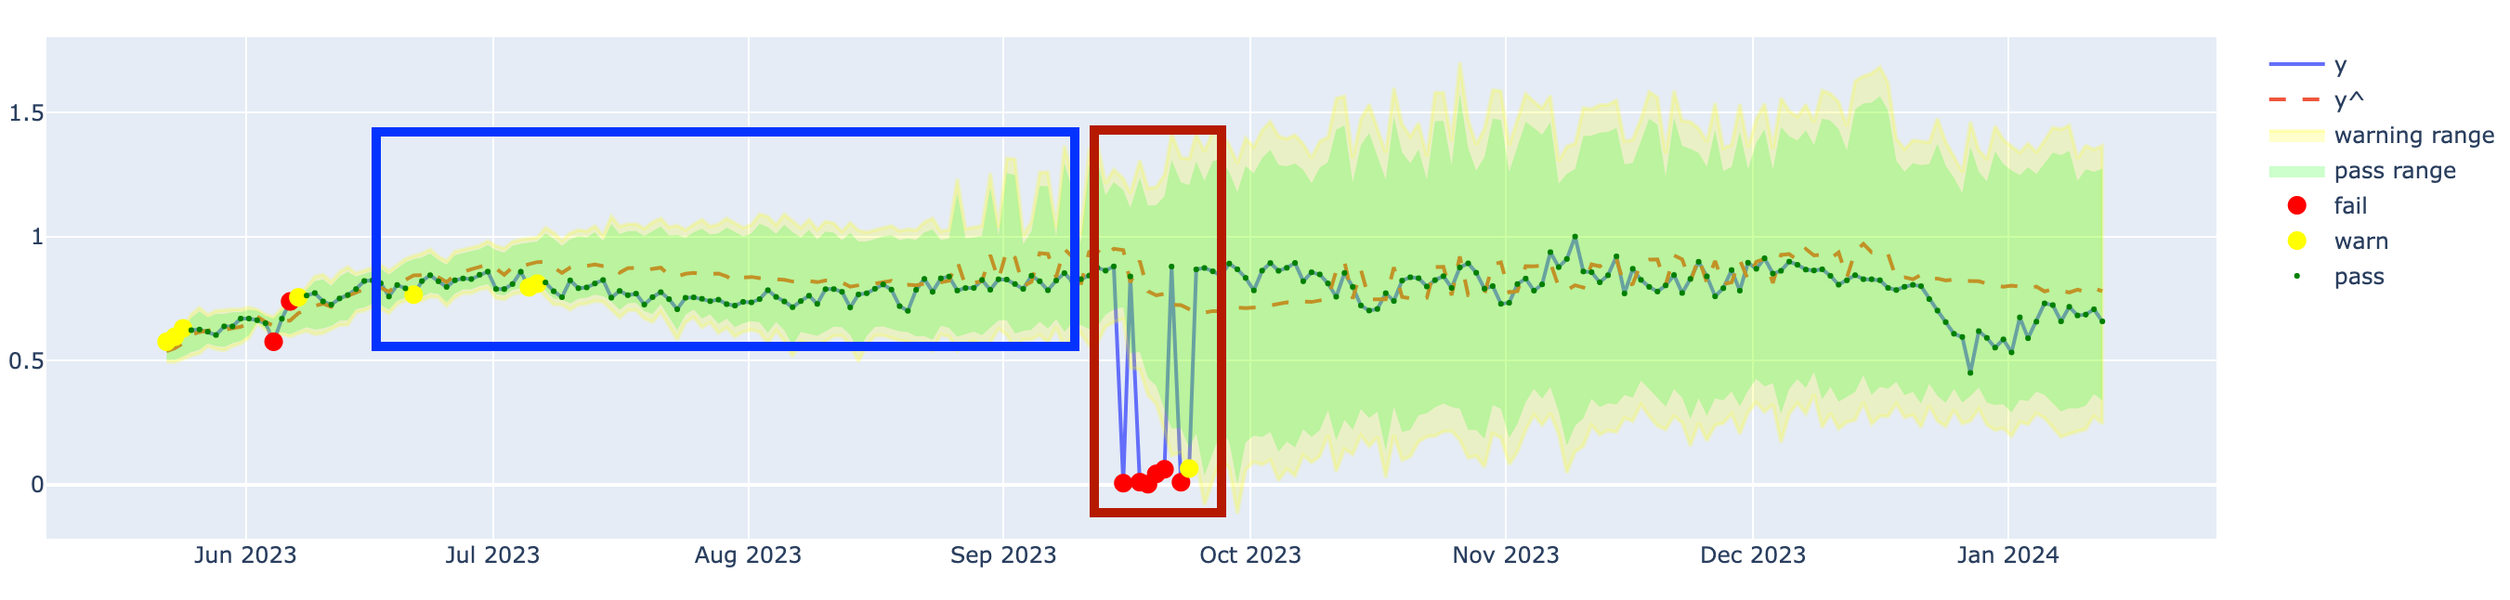
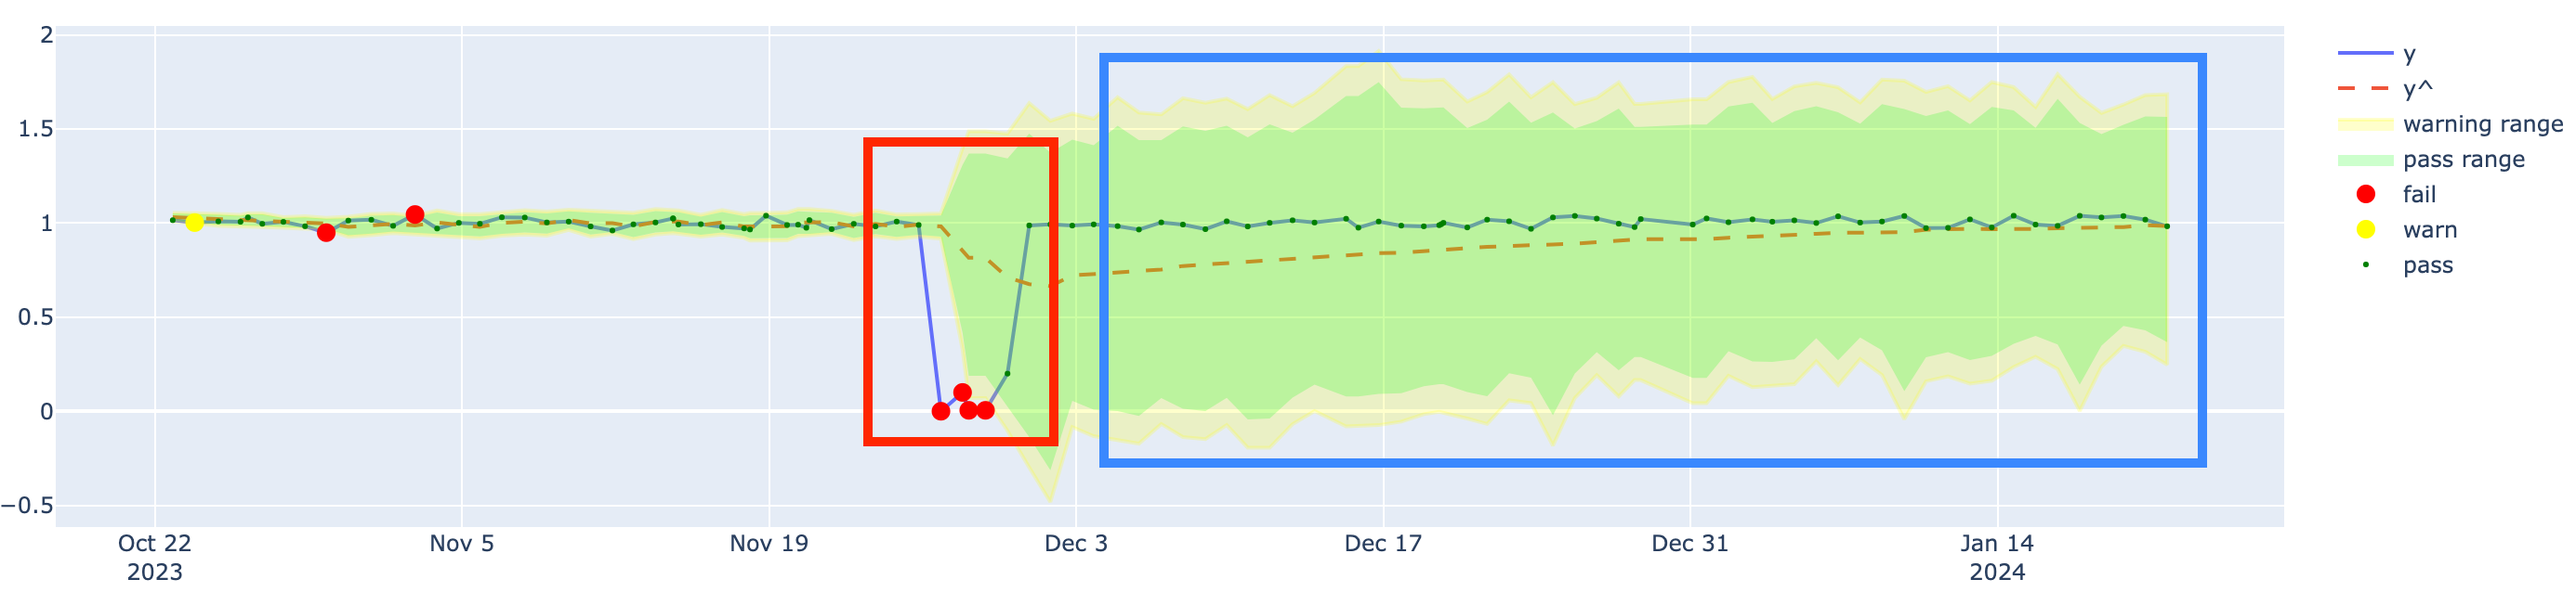
fix anomaly detection docs example for feedbacks

Changed region(s): [[0.0, 0.031, 0.9948, 0.9598]]

diff --git a/soda-cl/anomaly-detection.md b/soda-cl/anomaly-detection.md
@@ -439,26 +439,39 @@ With the profile set to `MAPE`, the model uses higher `changepoint_prior_scale=0
 
 ![underfitting-coverage](/assets/images/ad-better-fit-mape.png){:height="700px" width="700px"}
 
-### Sudden pattern changes
+### Handling consequtive falsely identified anomalies
 
-To decrease the rate of false detection of anomalies, Soda optimized the default hyperparameters of the anomaly detection check to detect anomalies in time-series data that exhibits a stable pattern. If the data exhibits sudden pattern changes, as illustrated in the graph below, you may need to adjust the default parameters to improve the model's ability to detect anomalies. 
+To decrease the rate of false detection of anomalies, Soda optimized the default hyperparameters of the anomaly detection check to detect anomalies in time-series data that exhibits a stable pattern. If the data exhibits pattern changes, as illustrated in the graph below, you may need to adjust the default parameters to improve the model's ability to detect anomalies to prevent alert fatigue. Until November 2023, we see that the data follows a stable pattern and using `coverage` profile is sufficient to detect anomalies. However, after November 2023, the pattern changes and the model needs to adapt to the new pattern.
 
-![coverage-profile](/assets/images/coverage-profile.png){:height="700px" width="700px"}
+![coverage-profile](/assets/images/ad-false-positive-coverage.png){:height="700px" width="700px"}
 
-In this situation, consider shortening the `window_length` parameter to make the model more sensitive to recent changes. By default, the `window_length` is `1000` which means that the model uses the last 1000 measurements to detect anomalies. If you set the `window_length` to a lower value such as  `30`, the model uses the last 30 measurements. Experiment with different values to find the optimal `window_length` for your data and business use case. Refer to [default model configurations](#add-optional-training-dataset-configurations) for guidance.
+The default `coverage` profile has very low `changepoint_prior_scale=0.001` and `seasonality_prior_scale=0.01` values which makes the model insensitive for the trend changes. For this reason, during the adaptation period, the model falsely identified consecutive measurements as anomalies for a long time as seen in the red rectangle. In such a case, consider using the `MAPE` as the first action as it is explained in the [previous section](#Insensitive-detection). Since, `MAPE` profile is more sensitive and it converges faster than `coverage` profile in case of pattern changes. The graph below illustrates the `MAPE` profile.
+
+![coverage-profile](/assets/images/ad-false-positive-mape.png){:height="700px" width="700px"}
+
+`MAPE` profile achieved a much better fit since `yˆ` values closely follow the actual measurements. Compared to `coverage` profile, `MAPE` causes a littly less false positives. However, it still falsely identifies consecutive measurements as anomalies for a long time. Thus, we need to take another action to decrease the false positives.
+
+The reason of consequtive false positives is that the model uses the last 1000 measurements and in case of unexpected pattern changes compared to the previous 1000 measurements, it takes time to adapt to the new pattern. In this use case, we have a weekly seasonality. As seen from the graph, each mondays there is a jump on the `y` value and the other days follow a steady increase. Thus, considering last 4 weeks or 30 data points instead of 1000 is sufficient for our use case since in 30 days, the model can capture the weekly seasonality effect.  In such a case, we can decrease the `window_length` parameter to `30`. Experiment with different values to find the optimal `window_length` for your data and business use case. Refer to [default model configurations](#add-optional-training-dataset-configurations) for guidance.
+  
 {% include code-header.html %}
 ```yaml
 checks for your-table-name:
   - anomaly detection for your-metric-name:
       training_dataset:
         window_length: 30
+      model:
+        type: prophet
+        hyperparameters:
+          static:
+            profile: MAPE
 ```
 
-Having adjusted the window length, the graph below illustrates that the model is more sensitive to recent measurements and can better adapt to pattern changes.
+Having adjusted the `window_length` and `MAPE` profile, the graph below illustrates that the model is more sensitive to recent measurements and do not create an alert fatigue after November 2023 as seen in the green rectangle.
 
-![coverage-profile-window-length-30](/assets/images/coverage-profile-window-length-30.png){:height="700px" width="700px"}
+![coverage-profile-window-length-30](/assets/images/ad-false-positive-mape-30.png){:height="700px" width="700px"}
 
-### Overly-sensitive detection
+<!-- TODO: enable this FAQ in the second release together with the fail/warn buffer feature. -->
+<!-- ### Overly-sensitive detection
 
 If the time series data is very easy to predict, then the model is likely to have very tight confidence intervals which can result in a model that falsely detects too many anomalies. For instance, the following daily row count graph has a very tight confidence interval since it has a very predictable linear pattern. Because the default `window_length` is `1000`, the uncertainty decreases over time and the model becomes more confident about its predictions and raises too many false positives.
 
@@ -475,31 +488,15 @@ checks for your-table-name:
 
 Having adjusted the window length, the graph below illustrates that the model is less confident and recognizes far fewer measurements as anomalies.
 
-![ad-linear-pattern-7-window-width](/assets/images/ad-linear-pattern-7-window-width.png){:height="700px" width="700px"}
+![ad-linear-pattern-7-window-width](/assets/images/ad-linear-pattern-7-window-width.png){:height="700px" width="700px"} -->
 
-### Large boundaries that ignore anomalies
+### Handling large boundraies after detecting an anomaly
 
-Consider the graph below that illustrates two issues with the anomaly detection behavior. First, the predicted trend underfits the area encapsulated within the blue rectangle. The model may recognize false negatives, ignoring some anomalies. The second issue is that due to the anomalous records inside the red rectangle, the model's confidence interval becomes very large. This large confidence interval may also result in missed anomalies.
+Anomolous records can confuse the model and cause very large confidence intervals if anomalous records are not ignored by the model. Consider the graph below. Due to the anomalies in the red rectangle, the model's confidence interval is very large and the model is not sensitive to anomalies in the blue rectangle. Thus, the model does not detect the anomalies in the blue rectangle.
 
 ![ad-coverage-anomaly-feedbacks](/assets/images/ad-coverage-anomaly-feedbacks.png){:height="700px" width="700px"}
 
-To address the first issue, you can change the `profile` to `MAPE` which is more sensitive to changepoints and seasonal variations. 
-
-{% include code-header.html %}
-```yaml
-checks for your-table-name:
-  - anomaly detection for your-metric-name:
-      model:
-        type: prophet
-        hyperparameters:
-          static:
-            profile: MAPE
-```
-
-Having set the profile to `MAPE`, the graph below indicates that the model is more sensitive to anomalies in data earlier in the year, where the increased red and yellow measurements indicate that the model identifies them as anomalies where it previously did not.
-![ad-mape-anomaly-feedbacks](/assets/images/ad-mape-anomaly-feedbacks.png){:height="700px" width="700px"}
-
-To address the second issue, use Soda Cloud to ignore the anomalies in the red rectangle. Where they crete very large anomaly boundaries, best practice dictates that you ignore the anomalies by using the **Feedback** feature. Hover over the anomalous measurement in your anomaly detection check page, then click the **Feedback** button and choose to **Ignore this value in future anomaly detection** as in the screenshot below.
+The anomalies causes larger intervals since the model is using them in training training data. A strait forward solution is to remove these anomolous records from the training dataset. Use Soda Cloud to ignore the anomalies in the red rectangle by using the **Feedback** feature. Hover over the anomalous measurement in your anomaly detection check page, then click the **Feedback** button and choose to **Ignore this value in future anomaly detection** as in the screenshot below.
 
 ![ad-cloud-feedback.png](/assets/images/ad-cloud-feedback.png){:height="700px" width="700px"}
 
